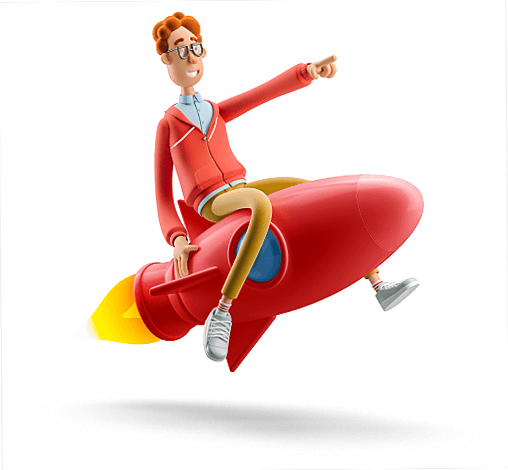
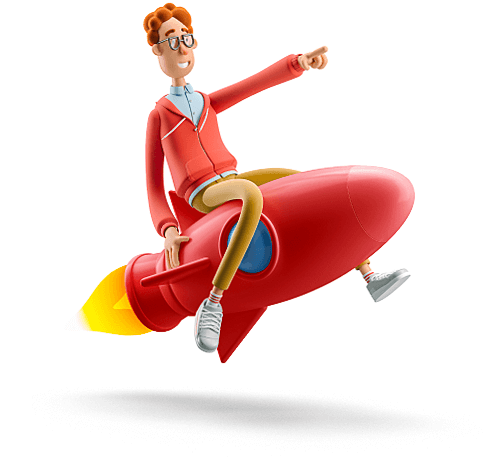
fa

diff --git a/src/pages/ContactsPage/ContactsPage.module.scss b/src/pages/ContactsPage/ContactsPage.module.scss
@@ -1,10 +1,12 @@
 .layout {
-  containe-type: inline-size;
+  container-type: inline-size;
+  position: relative;
   display: grid;
-  grid-template-columns: 1fr 1fr 1fr;
+  grid-template-columns: 1fr 1fr 1fr 2fr;
   grid-template-rows: 1fr 1fr;
   column-gap: 56px;
   row-gap: 48px;
+  margin-top: 48px;
 }
 
 .tels,
@@ -16,7 +18,7 @@
 
 .tels {
   grid-column: 1/2;
-  grid-row: 2/3;
+  grid-row: 1/2;
   & a {
     color: #000;
     transition: all 0.2s linear;
@@ -31,17 +33,17 @@
 
 .city {
   grid-column: 2/3;
-  grid-row: 2/3;
+  grid-row: 1/2;
 }
 
 .company {
   grid-column: 3/4;
-  grid-row: 2/3;
+  grid-row: 1/2;
 }
 
 .social {
   grid-column: 1/4;
-  grid-row: 3/4;
+  grid-row: 2/3;
   display: flex;
   column-gap: 18px;
   & img {
@@ -50,17 +52,30 @@
   }
 }
 .image {
+  position: absolute;
+  top: -6rem;
+  right: -79px;
+  z-index: -1;
   width: 62cqi;
-  max-width: 590px;
-  margin: 0 auto;
+  max-width: 496px;
 }
 
 @media (max-width: 1336px) {
   .layout {
     position: relative;
-    grid-template-rows: 0fr 1fr;
+    grid-template-rows: 1fr 1fr 1fr 2fr;
     column-gap: 34px;
     row-gap: 16pxpx;
+  }
+  .city {
+    grid-column: 2/4;
+    justify-self: center;
+  }
+  .company {
+    grid-column: 4/5;
+  }
+  .image {
+    top: 9rem;
   }
 }
 
@@ -79,6 +94,9 @@
   .social {
     grid-column: 1/2;
   }
+  .city {
+    justify-self: flex-start;
+  }
   .city,
   .company,
   .social {
@@ -95,6 +113,12 @@
   }
   .social {
     grid-row: 4;
-    justify-content: center;
+  }
+  .image {
+    position: static;
+    width: 100cqi;
+    max-width: 382px;
+    margin: 80px auto;
+
   }
 }

diff --git a/src/pages/ContactsPage/ContactsPage.jsx b/src/pages/ContactsPage/ContactsPage.jsx
@@ -27,8 +27,8 @@ export const ContactsPage = () => {
           <div className={styles.social}>
             <Social />
           </div>
+          <img className={styles.image} src={Image} alt="img" />
         </div>
-        <img className={styles.image} src={Image} alt="img" />
       </div>
     </main>
   )
